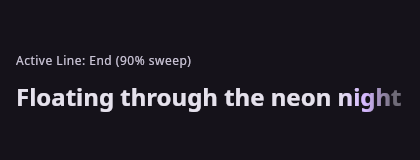
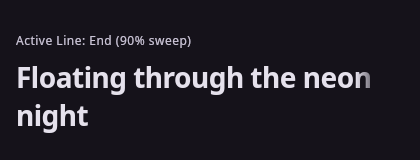
feat(m5-step3): shader-based 4-stop gradient lyrics word highlight rendering

Changed region(s): [[0.031, 0.3438, 0.9595, 0.8438], [0.031, 0.2188, 0.4643, 0.2812]]

diff --git a/composeApp/src/commonMain/kotlin/com/softify/app/ui/components/LyricsView.kt b/composeApp/src/commonMain/kotlin/com/softify/app/ui/components/LyricsView.kt
@@ -15,17 +15,19 @@ import androidx.compose.runtime.*
 import androidx.compose.ui.Alignment
 import androidx.compose.ui.Modifier
 import androidx.compose.ui.draw.alpha
-import androidx.compose.ui.draw.drawWithContent
 import androidx.compose.ui.geometry.Offset
 import androidx.compose.ui.geometry.Rect
 import androidx.compose.ui.graphics.*
-import androidx.compose.ui.graphics.drawscope.clipPath
 import androidx.compose.ui.input.pointer.pointerInput
+import androidx.compose.ui.platform.LocalDensity
 import androidx.compose.ui.text.AnnotatedString
 import androidx.compose.ui.text.TextLayoutResult
 import androidx.compose.ui.text.TextStyle
+import androidx.compose.ui.text.drawText
 import androidx.compose.ui.text.font.FontWeight
+import androidx.compose.ui.text.rememberTextMeasurer
 import androidx.compose.ui.text.style.TextAlign
+import androidx.compose.ui.unit.Constraints
 import androidx.compose.ui.unit.dp
 import androidx.compose.ui.unit.sp
 import com.softify.app.util.PlaybackLogger
@@ -285,7 +287,8 @@ fun LyricsView(
                     }
                     .padding(vertical = 4.dp)
             ) {
-                if (line.text.trim() == "[Instrumental]" || line.text.isBlank()) {
+                val lineDisplayText = if (line.text.isNotBlank()) line.text else line.words.joinToString(" ") { it.text }
+                if (lineDisplayText.trim() == "[Instrumental]" || lineDisplayText.isBlank()) {
                     InstrumentalIndicator()
                 } else if (isActive) {
                     ActiveLyricLine(
@@ -295,7 +298,7 @@ fun LyricsView(
                     )
                 } else {
                     Text(
-                        text = line.text,
+                        text = lineDisplayText,
                         style = LyricTextStyle.copy(
                             color = MaterialTheme.colorScheme.onSurface
                         ),
@@ -467,10 +470,26 @@ fun buildActiveLyricClipPath(
 }
 
 /**
+ * Pre-measured word segment with exact sub-layout and paragraph offset.
+ * Pre-computed once when layout settles to achieve ZERO per-frame allocations.
+ */
+data class MeasuredWordPart(
+    val word: LyricWord,
+    val text: String,
+    val topLeft: Offset,
+    val width: Float,
+    val height: Float,
+    val subLayout: TextLayoutResult,
+    val partIndex: Int,
+    val totalParts: Int
+)
+
+/**
  * Active lyric line rendering word-by-word timing in the draw phase.
- * Renders each line as ONE single Text using an AnnotatedString so the text engine
- * wraps it as a paragraph. Lit words and fill sweep are drawn via TextLayoutResult
- * bounding boxes, driven by the frame clock strictly in the draw phase.
+ * Renders each line as ONE single paragraph layout using TextMeasurer so the text engine
+ * wraps it as a paragraph. Lit words and fill sweep are drawn via a 4-stop Brush.linearGradient
+ * (0f to lit, 0.1f to lit, 0.9f to unlit, 1.0f to unlit) driven by the frame clock strictly in
+ * the draw phase, with zero per-frame Path/clipPath allocations.
  * Tap-to-seek maps tap offset to word timestamp via getOffsetForPosition.
  */
 @Composable
@@ -482,75 +501,184 @@ fun ActiveLyricLine(
 ) {
     val onSurfaceColor = MaterialTheme.colorScheme.onSurface
     val aheadColor = MaterialTheme.colorScheme.onSurface.copy(alpha = 0.35f)
+    val density = LocalDensity.current
+    val textMeasurer = rememberTextMeasurer()
 
-    // Build single paragraph string and character ranges for each word
-    val (annotatedText, wordRanges) = remember(line.words, line.text) {
-        if (line.words.isNotEmpty()) {
-            val fullString = line.words.joinToString(" ") { it.text }
-            val ranges = mutableListOf<WordCharRange>()
-            var curr = 0
-            for (w in line.words) {
-                val start = curr
-                val end = start + w.text.length
-                ranges.add(WordCharRange(w, start, end))
-                curr = end + 1 // space separator
-            }
-            AnnotatedString(fullString) to ranges
+    // 1. Build canonical paragraph string and character ranges for each word
+    val fullString = remember(line.words, line.text) {
+        if (line.text.isNotBlank()) line.text else line.words.joinToString(" ") { it.text }
+    }
+
+    val wordRanges = remember(fullString, line.words) {
+        if (line.words.isEmpty()) {
+            emptyList<WordCharRange>()
         } else {
-            AnnotatedString(line.text) to emptyList<WordCharRange>()
+            val ranges = mutableListOf<WordCharRange>()
+            var searchIdx = 0
+            for (w in line.words) {
+                val wordTrimmed = w.text.trim()
+                if (wordTrimmed.isEmpty()) continue
+                val found = fullString.indexOf(wordTrimmed, searchIdx)
+                if (found >= 0) {
+                    val start = found
+                    val end = found + wordTrimmed.length
+                    ranges.add(WordCharRange(w, start, end))
+                    searchIdx = end
+                } else {
+                    val start = searchIdx.coerceAtMost(fullString.length)
+                    val end = (start + wordTrimmed.length).coerceAtMost(fullString.length)
+                    ranges.add(WordCharRange(w, start, end))
+                    searchIdx = end
+                }
+            }
+            ranges
         }
     }
 
-    var textLayoutResult by remember { mutableStateOf<TextLayoutResult?>(null) }
+    BoxWithConstraints(modifier = modifier.fillMaxWidth()) {
+        val widthPx = constraints.maxWidth
+        if (widthPx <= 0) return@BoxWithConstraints
 
-    Box(
-        modifier = modifier
-            .fillMaxWidth()
-            .pointerInput(line, wordRanges) {
-                detectTapGestures { tapOffset ->
-                    val layout = textLayoutResult ?: return@detectTapGestures
-                    val charOffset = layout.getOffsetForPosition(tapOffset)
-                    val matchedWord = wordRanges.find { charOffset in it.startChar..it.endChar }?.word
-                    if (matchedWord != null) {
-                        onSeekTo(matchedWord.startMs)
+        // 2. Pre-measure full paragraph layout (determines line breaks and wrapping)
+        val fullLayout = remember(fullString, widthPx) {
+            textMeasurer.measure(
+                text = AnnotatedString(fullString),
+                style = LyricTextStyle,
+                softWrap = true,
+                constraints = Constraints(minWidth = widthPx, maxWidth = widthPx)
+            )
+        }
+
+        // 3. Pre-measure per-line word bounding boxes and sub-layouts once when layout settles (zero per-frame allocations)
+        val measuredWordParts = remember(fullLayout, wordRanges) {
+            val parts = mutableListOf<MeasuredWordPart>()
+            val fullLen = fullString.length
+            for (range in wordRanges) {
+                val w = range.word
+                val startChar = range.startChar.coerceIn(0, fullLen)
+                val endChar = range.endChar.coerceIn(0, fullLen)
+                if (startChar >= endChar) continue
+
+                val startLine = fullLayout.getLineForOffset(startChar)
+                val lastChar = (endChar - 1).coerceAtLeast(startChar)
+                val endLine = fullLayout.getLineForOffset(lastChar)
+                val totalParts = endLine - startLine + 1
+
+                for (l in startLine..endLine) {
+                    val lStart = maxOf(startChar, fullLayout.getLineStart(l))
+                    val lEnd = minOf(endChar, fullLayout.getLineEnd(l))
+                    if (lStart >= lEnd) continue
+
+                    val partText = fullString.substring(lStart, lEnd)
+                    val subLayout = textMeasurer.measure(
+                        text = AnnotatedString(partText),
+                        style = LyricTextStyle
+                    )
+
+                    val left = fullLayout.getHorizontalPosition(lStart, true)
+                    val right = fullLayout.getHorizontalPosition(lEnd, false)
+                    val minX = minOf(left, right)
+                    val maxX = maxOf(left, right)
+                    val top = fullLayout.getLineTop(l)
+                    val bottom = fullLayout.getLineBottom(l)
+
+                    parts.add(
+                        MeasuredWordPart(
+                            word = w,
+                            text = partText,
+                            topLeft = Offset(minX, top),
+                            width = (maxX - minX).coerceAtLeast(1f),
+                            height = (bottom - top).coerceAtLeast(1f),
+                            subLayout = subLayout,
+                            partIndex = l - startLine,
+                            totalParts = totalParts
+                        )
+                    )
+                }
+            }
+            parts
+        }
+
+        val layoutHeightDp = with(density) { fullLayout.size.height.toDp() }
+
+        // Cached solid brushes
+        val litBrush = remember(onSurfaceColor) { SolidColor(onSurfaceColor) }
+        val unlitBrush = remember(aheadColor) { SolidColor(aheadColor) }
+
+        Canvas(
+            modifier = Modifier
+                .fillMaxWidth()
+                .height(layoutHeightDp)
+                .pointerInput(line, wordRanges, fullLayout) {
+                    detectTapGestures { tapOffset ->
+                        val charOffset = fullLayout.getOffsetForPosition(tapOffset)
+                        val matchedWord = wordRanges.find { charOffset in it.startChar..it.endChar }?.word
+                        if (matchedWord != null) {
+                            onSeekTo(matchedWord.startMs)
+                        } else {
+                            onSeekTo(line.timeMs)
+                        }
+                    }
+                }
+        ) {
+            val currentMs = positionProvider() // Read ONLY in draw phase!
+
+            if (line.isLineTimed || measuredWordParts.isEmpty()) {
+                // Line-timed lyrics: highlight whole line with lit color immediately when active
+                drawText(textLayoutResult = fullLayout, brush = litBrush)
+            } else {
+                // Word-timed lyrics: hardware-accelerated 4-stop horizontal gradient sweep per word
+                for (part in measuredWordParts) {
+                    val word = part.word
+                    if (currentMs < word.startMs) {
+                        // Future word: unlit / dimmed
+                        drawText(
+                            textLayoutResult = part.subLayout,
+                            topLeft = part.topLeft,
+                            brush = unlitBrush
+                        )
+                    } else if (currentMs >= word.endMs) {
+                        // Fully sung word: lit
+                        drawText(
+                            textLayoutResult = part.subLayout,
+                            topLeft = part.topLeft,
+                            brush = litBrush
+                        )
                     } else {
-                        onSeekTo(line.timeMs)
+                        // Actively sung word: 4-stop gradient wipe across word bounds
+                        val duration = (word.endMs - word.startMs).coerceAtLeast(1L).toFloat()
+                        val elapsed = (currentMs - word.startMs).toFloat()
+                        val totalProgress = (elapsed / duration).coerceIn(0f, 1f)
+                        val partProgress = if (part.totalParts > 1) {
+                            ((totalProgress * part.totalParts) - part.partIndex).coerceIn(0f, 1f)
+                        } else {
+                            totalProgress
+                        }
+
+                        val wiperX = part.width * partProgress
+                        val gradientWidth = 24.dp.toPx().coerceAtMost(part.width * 0.4f).coerceAtLeast(4f)
+                        val halfGrad = gradientWidth / 2f
+                        val bandStart = wiperX - halfGrad
+                        val bandEnd = wiperX + halfGrad
+
+                        val brush = Brush.linearGradient(
+                            0.0f to onSurfaceColor,
+                            0.1f to onSurfaceColor,
+                            0.9f to aheadColor,
+                            1.0f to aheadColor,
+                            start = Offset(bandStart, 0f),
+                            end = Offset(bandEnd, 0f)
+                        )
+
+                        drawText(
+                            textLayoutResult = part.subLayout,
+                            topLeft = part.topLeft,
+                            brush = brush
+                        )
                     }
                 }
             }
-    ) {
-        // Layer 1: Base Dim Text (captures platform text layout result)
-        Text(
-            text = annotatedText,
-            style = LyricTextStyle.copy(color = aheadColor),
-            textAlign = TextAlign.Start,
-            modifier = Modifier.fillMaxWidth(),
-            onTextLayout = { textLayoutResult = it }
-        )
-
-        // Layer 2: Lit Text, clipped strictly in draw phase via TextLayoutResult bounding boxes
-        Text(
-            text = annotatedText,
-            style = LyricTextStyle.copy(color = onSurfaceColor),
-            textAlign = TextAlign.Start,
-            modifier = Modifier
-                .fillMaxWidth()
-                .drawWithContent {
-                    val layout = textLayoutResult ?: return@drawWithContent
-                    val currentMs = positionProvider() // Read ONLY in draw phase!
-
-                    val clipPath = buildActiveLyricClipPath(
-                        layout = layout,
-                        wordRanges = wordRanges,
-                        currentMs = currentMs,
-                        line = line
-                    )
-
-                    clipPath(clipPath) {
-                        this@drawWithContent.drawContent()
-                    }
-                }
-        )
+        }
     }
 }
 
@@ -565,36 +693,51 @@ fun ActiveLyricLine(
 ) {
     val onSurfaceColor = MaterialTheme.colorScheme.onSurface
     val aheadColor = MaterialTheme.colorScheme.onSurface.copy(alpha = 0.35f)
+    val textMeasurer = rememberTextMeasurer()
+    val density = LocalDensity.current
 
-    var textLayoutResult by remember { mutableStateOf<TextLayoutResult?>(null) }
+    BoxWithConstraints(modifier = modifier.fillMaxWidth()) {
+        val widthPx = constraints.maxWidth
+        if (widthPx <= 0) return@BoxWithConstraints
 
-    Box(modifier = modifier.fillMaxWidth()) {
-        Text(
-            text = text,
-            style = LyricTextStyle.copy(color = aheadColor),
-            textAlign = TextAlign.Start,
-            modifier = Modifier.fillMaxWidth(),
-            onTextLayout = { textLayoutResult = it }
-        )
+        val layout = remember(text, widthPx) {
+            textMeasurer.measure(
+                text = AnnotatedString(text),
+                style = LyricTextStyle,
+                softWrap = true,
+                constraints = Constraints(minWidth = widthPx, maxWidth = widthPx)
+            )
+        }
 
-        Text(
-            text = text,
-            style = LyricTextStyle.copy(color = onSurfaceColor),
-            textAlign = TextAlign.Start,
+        val layoutHeightDp = with(density) { layout.size.height.toDp() }
+
+        Canvas(
             modifier = Modifier
                 .fillMaxWidth()
-                .drawWithContent {
-                    val p = progress.coerceIn(0f, 1f)
-                    val w = size.width.coerceAtLeast(1f)
-                    val h = size.height.coerceAtLeast(1f)
-                    val path = Path().apply {
-                        addRect(Rect(0f, 0f, w * p, h))
-                    }
-                    clipPath(path) {
-                        this@drawWithContent.drawContent()
-                    }
-                }
-        )
+                .height(layoutHeightDp)
+        ) {
+            val p = progress.coerceIn(0f, 1f)
+            val w = layout.size.width.toFloat()
+            val wiperX = w * p
+            val gradientWidth = 24.dp.toPx().coerceAtMost(w * 0.2f).coerceAtLeast(6f)
+            val halfGrad = gradientWidth / 2f
+            val bandStart = wiperX - halfGrad
+            val bandEnd = wiperX + halfGrad
+
+            val brush = Brush.linearGradient(
+                0.0f to onSurfaceColor,
+                0.1f to onSurfaceColor,
+                0.9f to aheadColor,
+                1.0f to aheadColor,
+                start = Offset(bandStart, 0f),
+                end = Offset(bandEnd, 0f)
+            )
+
+            drawText(
+                textLayoutResult = layout,
+                brush = brush
+            )
+        }
     }
 }
 
